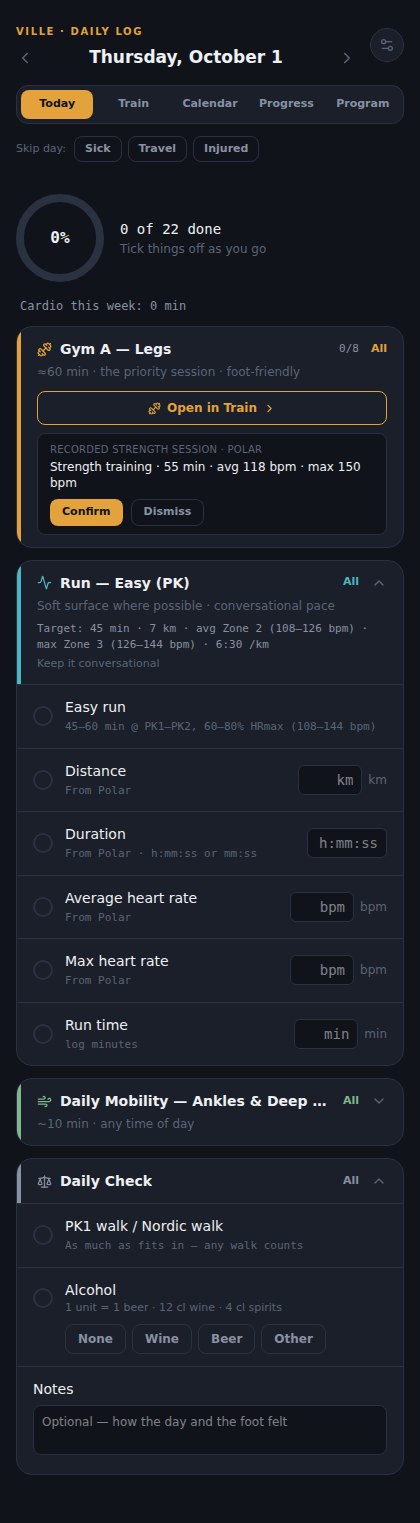
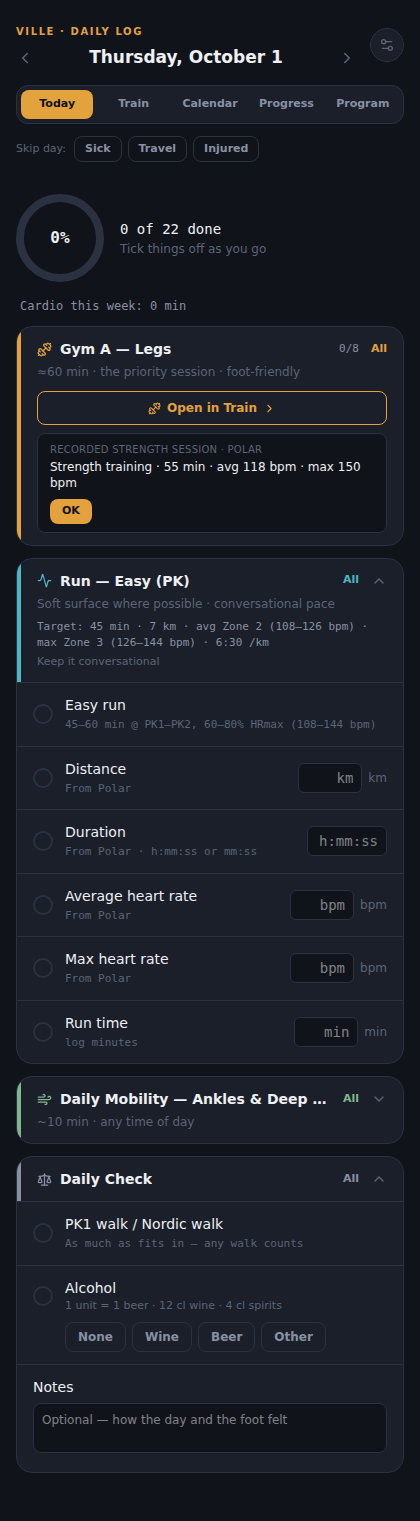
Phase 5 report: single "OK" strength offer follow-up, browser check 41/0
Claude-Session: https://claude.ai/code/session_01Tzee5FQYPF6NtNb1SR8ZNT

diff --git a/briefs/reports/step9-phase5-cardio-client-report.md b/briefs/reports/step9-phase5-cardio-client-report.md
@@ -115,3 +115,19 @@ Browser check (Ville build, fixture data, mocked backend): 40 passed, 0 failed. 
 3. **Unmapped strength in a cardio type.** If a coach ever lists `strengthTraining` in a `cardioTypes[].sports`, it is still treated as strength (tested), never as cardio.
 4. **Existing data.** No strength extra has been confirmed anywhere yet (Phase 5 is unmerged), so no legacy entries need migrating.
 5. Same browser-check limits as Phase 5: one client driven, fixture data, mocked backend.
+
+## Follow-up — single "OK" on a planned strength day (chat, 1 Oct 2026)
+
+John's call on Phase 5b open item 1: one button. `WorkoutOffer` now renders
+Dismiss only when given an `onDismiss`; the strength offer passes `OK` only.
+Behaviour unchanged (OK records the key, nothing else). Pushed by chat to the
+same branches, with no version bump.
+
+- `app.jsx` sha256 (four clients): `5a088e4e864c…`; `bundle.js` rebuilt.
+  `cardio.js` `4fdcbaf1`, `engine.js` `c3eb98c2`, `program-schema.js`
+  `e67329ea` unchanged.
+- Gates per client: delivery 95/0, history 29/0, wearable-scope 10/0,
+  cardio 74/0, cardio-client 23/0, build ok.
+- Browser check: 41 passed, 0 failed (new: exactly one OK, no Dismiss, no
+  Confirm). Screenshots `6-`, `6b-`, `6c-` re-shot. `browser-check.mjs` now
+  takes `VILLE_ROOT` and `SHOT_DIR` from the environment.
